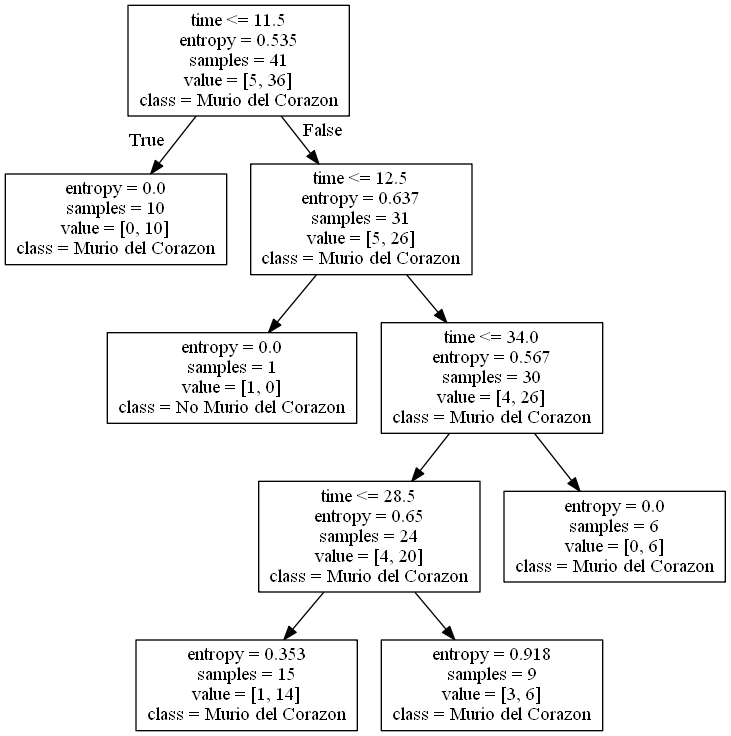
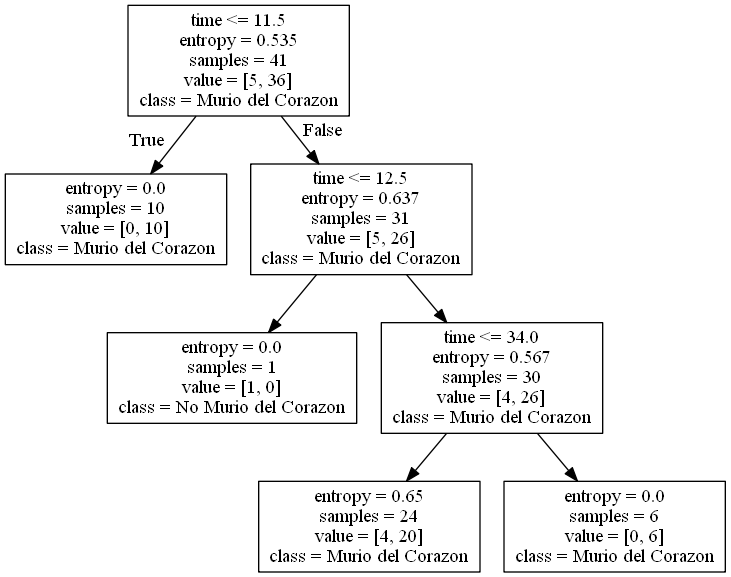
Haciendo correciones

Changed region(s): [[0.0, 0.0, 0.9932, 0.9983], [0.632, 0.3744, 0.6621, 0.4055], [0.3311, 0.3744, 0.3611, 0.4055]]

diff --git a/Pregunta 3/Preg3.py b/Pregunta 3/Preg3.py
@@ -47,7 +47,7 @@ X_train, X_test, y_train, y_test = train_test_split(x, y, test_size=0.2, random_
 
 # Creamos el arbol de decision con una altura maxima de nodos igual a 4 y lo clasifica de la mejor manera posible
 # y usa el critero de entriopia para medir la calidad 
-arbolDec = DecisionTreeClassifier(max_depth=4,random_state=0, criterion='entropy')
+arbolDec = DecisionTreeClassifier(max_leaf_nodes=4,random_state=0, criterion='entropy')
 
 # Construimos el arbol con los valores de entrenamiento
 arbolDec = arbolDec.fit(X_train,y_train)
